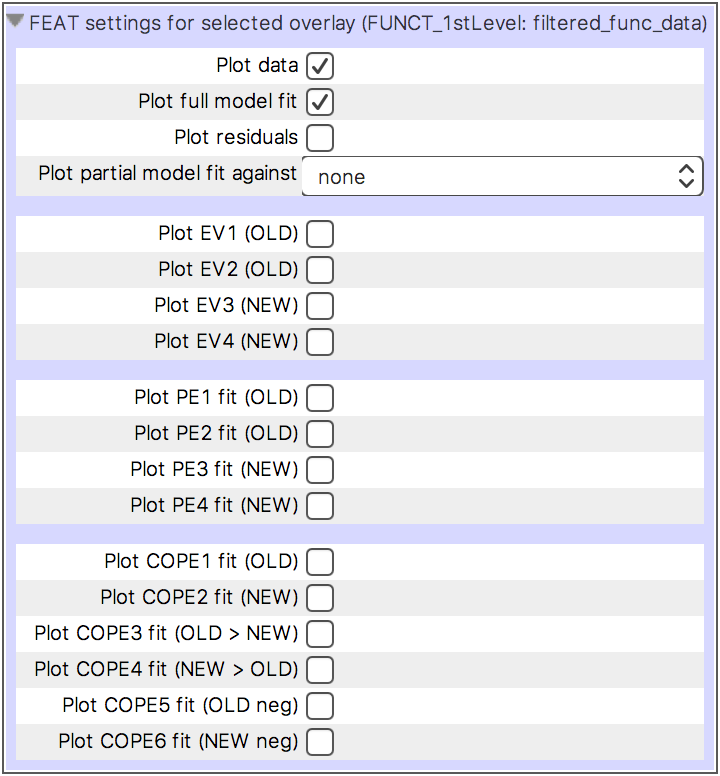
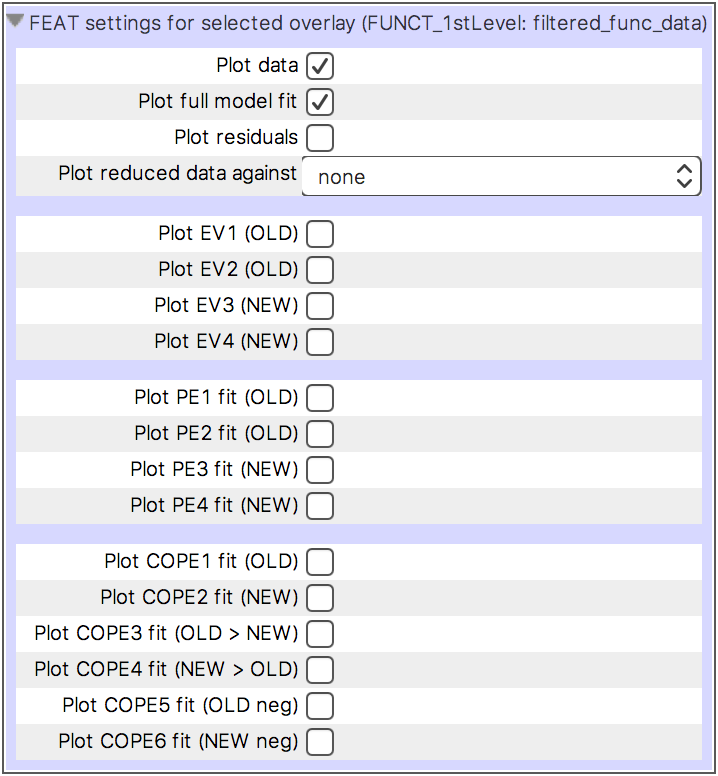
User docs

diff --git a/userdoc/feat_mode.rst b/userdoc/feat_mode.rst
@@ -113,7 +113,7 @@ in each contrast of your analysis.
 
 The controls at the top of the cluster panel allow you to:
 
-- Change the contrast for which you are viewing cluster results.
+- Change the contrast that you are viewing cluster results for.
 
 - Load the Z statistic image for the current contrast. The image is displayed
   as a :ref:`volume overlay <overlays_volume>`.
@@ -157,7 +157,8 @@ estimates (COPEs).
 
 When an image from a FEAT analysis is selected, the :ref:`plot control panel
 <plot_views_customising_the_plot_the_plot_control_panel>` adds a group of
-settings allowing you to control what is plotted:
+settings allowing you to control what is plotted. See the :ref:`GLM refresher
+<feat_mode_glm_refresher>` below for more details on what the options mean:
 
 
 .. image:: images/feat_mode_time_series_feat_settings.png
@@ -174,15 +175,193 @@ settings allowing you to control what is plotted:
 - **Plot residuals** When selected, the residuals of the full model fit (the
   noise) at the current voxel is plotted.
   
-- **Plot partial model fit against** This setting allows you to plot a partial
-  model fit against any of the PEs or COPEs in the analysis.
+- **Plot reduced data against** This setting allows you to plot a "reduced"
+  version of the data at the current voxel, against any of the PEs or COPEs in
+  the analysis.
   
 - **Plot EV** A checkbox is added for each EV in your design, allowing you to
   plot them alongside the data.
    
 - **Plot PE fit** A checkbox is added for each PE in the analysis, allowing
-  you to plot any of them at the current voxel.
+  you to plot the model fit for any of them at the current voxel.
   
 - **Plot COPE fit** A checkbox is added for each COPE in the analysis,
-  allowing you to plot any of them at the current voxel.
+  allowing you to plot the model fit for any of them at the current voxel.
+
+
+.. _feat_mode_glm_refresher:
+
+GLM refresher
+-------------
+
+
+`The following overview pertains to fitting a model to the time course for a
+single voxel.`
+
+
+Let's say that we have an experimental model comprising a single *explanatory
+variable* (EV).  For a voxel with an observed time course
+:math:`\boldsymbol{Y}`, over :math:`n` time points:
+
+.. math::
+   \boldsymbol{Y} = {Y_1, Y_2, \dots, Y_n}
+
+
+And an expected time course :math:`\boldsymbol{X}` (the time course of our
+EV):
+
+.. math::
+   \boldsymbol{X} = {X_1, X_2, \dots, X_n}
+
+
+The aim of the General Linear Model (GLM) is to obtain the best fit of
+:math:`\boldsymbol{X}` to :math:`\boldsymbol{Y}`, by finding the best values
+for the *parameter estimates* (PEs) :math:`\boldsymbol{\beta}` in the
+following equation:
+
+.. math::
+   \boldsymbol{Y} = \boldsymbol{X}\boldsymbol{\beta} + \boldsymbol{\epsilon}
+
+
+This is equivalent to finding the minimum value for the residual error
+:math:`\boldsymbol{\epsilon}`.
+
+      
+With a single EV (i.e. :math:`\boldsymbol{X}` is a column vector), we end up
+with a single PE :math:`\boldsymbol{\beta}`. With :math:`p` EVs
+(i.e. :math:`\boldsymbol{X}` is a :math:`p\times n` matrix),
+:math:`\boldsymbol{\beta}` will be a vector of PEs, one for each EV:
+
+.. math::
+   \boldsymbol{\beta} = {\beta_1, \beta_2, \dots, \beta_p}
+
+
+A *contrast of parameter estimates* (COPE) is simply a linear combination of
+PEs, and is defined with a contrast vector. Let's say our experimental design
+comprises three EVs (i.e. :math:`p = 3` in the above equations), and we are
+interested in the first. The contrast vector (or simply the contrast) would
+be:
+
+.. math::
+
+   \boldsymbol{C_1} = {1, 0, 0}
+
+The COPE for this contrast is then the elementwise product of the contrast
+vector :math:`\boldsymbol{C}` and the parameter estimates
+:math:`\boldsymbol{\beta}`:
+
+.. math::
+
+   
+   COPE_1 &= 1 \times \beta_1 + 0 \times \beta_2 + 0 \times \beta_3 \\
+          &= \beta_1
+
+
+.. _feat_mode_understanding_feat_time_series_plots:
+
+Understanding FEAT time series plots
+------------------------------------
+
+
+With the above :ref:`refresher <feat_mode_glm_refresher>`, we can now describe
+what FSLeyes plots, when you view the results of a FEAT analysis. A few of the
+options are straightforward to interpret:
+
+
+- **Plot data** This option plots the voxel time course
+  :math:`\boldsymbol{Y}`.
+
+- **Plot residutals** This option plots the residual error
+  :math:`\boldsymbol{\epsilon}`.
+
+- **Plot EV** These options plot the EVs, i.e. the columns of
+  :math:`\boldsymbol{X}`.
+
+
+.. sidebar:: The FSLeyes plots don't match the FEAT report plots!
+
+             The plots included in FEAT reports are generated by the
+             ``tsplot`` command line utility. While FSLeyes |version| and
+             ``tsplot`` essentially plot the same data, ``tsplot`` may apply
+             some further processing to the full and partial model fits,
+             including weighting them by Z values, and
+             pre-whitening. Therefore plots shown in FSLeyes |version| may not
+             exactly match the corresponding plots in the FEAT report.
+
+
+.. _feat_mode_full_and_partial_model_fits:
+
+Full and partial model fits
+^^^^^^^^^^^^^^^^^^^^^^^^^^^             
+
+
+The *Plot full model fit*, *Plot PE fit* and *Plot COPE fit* options all work
+in a similar manner, so are described together. Each of these options plot the
+GLM model fit for a specific contrast vector.
+
+
+For a contrast :math:`\boldsymbol{C}`, the model fit :math:`\boldsymbol{F_C}`
+at time :math:`t` is calculated as:
+
+.. math::
+
+   F_C^t = \sum_{e=1}^{p}{X_e^t\ \beta_e\ C_e}
+
+
+where:
+
+- :math:`p` is the number of EVs in the design matrix,
   
+- :math:`X_e^t` is the value in the design matrix for EV :math:`e` at time
+  :math:`t`,
+        
+- :math:`\beta_e` is the parameter estimate for EV :math:`e`, and
+  
+- :math:`C_e` is the value in the contrast vector for EV :math:`e`.
+
+
+The contrast vector :math:`\boldsymbol{C}` is defined as follows:
+  
+- For the *Plot full model fit* option, the contrast :math:`\boldsymbol{C}`
+  is simply a vector of ones.
+
+- For the *Plot PE fit* options, :math:`\boldsymbol{C}` is a vector
+  containing a one for the EV corresponding to the PE, and zeros everywhere
+  else. 
+
+- For the *Plot COPE fit* options, the contrast is the contrast vector that
+  was used in the FEAT analysis.
+
+     
+A couple of further steps are applied to the above process:
+  
+- For the *Plot PE fit* and *Plot COPE fit* options, the contrast vectors
+  are normalised to unit length before the model fit is calculated:
+
+  .. math::
+     
+     \boldsymbol{C} = \frac{\boldsymbol{C}}{\sqrt{\sum_{e=1}^{p}{C_e^2}}}
+
+- For the *Full model fit* option, after the fit calculation, the model fit
+  is de-meaned, and then the mean of the voxel time course is added to it
+  before it is plotted.
+
+
+.. _feat_mode_reduced_data_plots:
+
+Reduced data plots
+^^^^^^^^^^^^^^^^^^
+
+The *Plot reduced data against* option allows you to plot a "reduced" version
+of the voxel time course against any of the PEs or COPEs in your analysis. The
+reduced data :math:`\boldsymbol{D}` for a contrast :math:`\boldsymbol{C}` is
+easily calculated:
+
+
+.. math::
+
+   \boldsymbol{D_C} = \boldsymbol{F_C} + \boldsymbol{\epsilon}
+
+
+i.e. the reduced data for a contrast is the sum of the partial model fit for
+that contrast, and the residual error from the GLM estimation.

diff --git a/userdoc/index.rst b/userdoc/index.rst
@@ -84,10 +84,20 @@ Image editing
 
 - :ref:`Editing NIFTI images <editing_images>`
 - :ref:`Edit toolbar <editing_images_edit_toolbar>`
+
+
+
+FEAT analyses
+-------------
+
+- :ref:`Viewing FEAT analyses <feat_mode>`
+- :ref:`Cluster panel <feat_mode_viewing_clusters_the_cluster_panel>` 
+- :ref:`GLM refresher <feat_mode_glm_refresher>`
+- :ref:`Understanding FEAT time series plots <feat_mode_understanding_feat_time_series_plots>`
+- :ref:`Full and partial model fits <feat_mode_full_and_partial_model_fits>`
+- :ref:`Reduced data plots <feat_mode_reduced_data_plots>`
      
 
 Lookup table panel
 
 Melodic IC panel
-
-Cluster panel
